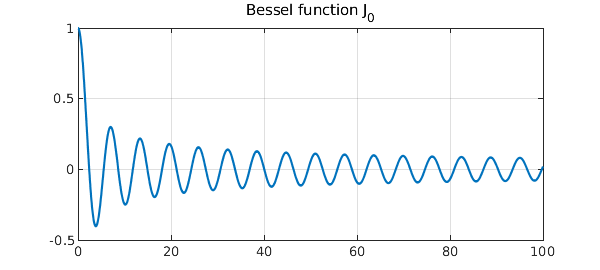
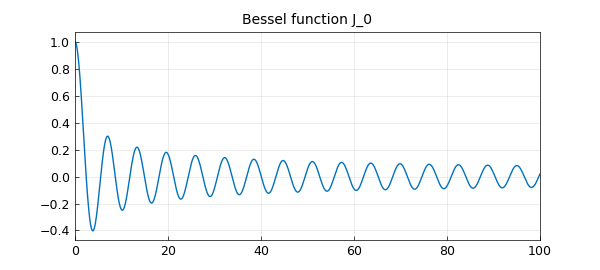
Workstream D pilot: roots/BesselRoots per-block figures genuine
First example page converted to per-block figure parity: the 1,230
NOT_REGENERATED example figures are byte-copies of chebfun.org because
the example pages were written as summaries with one combined local
figure. The per-category generator convention starts here
(scripts/generate_examples_roots.py, one function per page, reference
pixel sizes read from the refs): BesselRoots_01/02 regenerate genuinely
and pass at 0.029/0.031 (hist 0.9998). Page updated to reference them;
3/3 blocks execute.

Full workstream design, category order, and accumulated gotchas:
/scratch/gpfs/CRYOEM/gilleslab/chebfunjax_audit_20260702/workstream_D_plan.md

Changed region(s): [[0.06, 0.0, 0.93, 0.9481]]

diff --git a/scripts/generate_examples_roots.py b/scripts/generate_examples_roots.py
@@ -1,0 +1,83 @@
+"""Generate per-block figures for the docs/examples/roots pages.
+
+Each function regenerates the chebfun.org reference figures
+<Name>_NN.png for one example page, at the reference pixel sizes,
+using genuine chebfunjax computations. Run whole-file or filter with
+an argument substring, e.g.:
+
+    python scripts/generate_examples_roots.py BesselRoots
+"""
+
+import os
+
+os.environ.setdefault("XLA_PYTHON_CLIENT_PREALLOCATE", "false")
+
+import matplotlib
+
+matplotlib.use("Agg")
+
+import sys
+
+sys.path.insert(0, os.path.join(os.path.dirname(__file__), "..", "src"))
+
+import jax.numpy as jnp
+import matplotlib.pyplot as plt
+import numpy as np
+
+import chebfunjax as cj
+from chebfunjax.plotting import CHEBFUN_BLUE, chebfun_style, save_chebfun_figure
+
+chebfun_style()
+
+OUT = os.path.join(os.path.dirname(__file__), "..", "docs", "images", "roots")
+REF = ("/scratch/gpfs/CRYOEM/gilleslab/chebfunjax_audit_20260702/refs/"
+       "docs/images/roots")
+
+
+def save(fig, name):
+    from PIL import Image
+
+    ref_path = os.path.join(REF, name)
+    size = Image.open(ref_path).size if os.path.exists(ref_path) else (600, 270)
+    path = os.path.join(OUT, name)
+    save_chebfun_figure(fig, path, size=size)
+    plt.close(fig)
+    print(f"  {name} saved")
+
+
+def besselroots():
+    """roots/BesselRoots — J0 on [0,100] and its roots."""
+    import scipy.special
+
+    J0 = cj.chebfun(lambda x: jnp.asarray(scipy.special.j0(np.asarray(x))),
+                    domain=[0.0, 100.0])
+    xs = jnp.linspace(0.0, 100.0, 2000)
+
+    fig, ax = plt.subplots()
+    ax.plot(np.asarray(xs), np.asarray(J0(xs)), color=CHEBFUN_BLUE,
+            linewidth=1.0)
+    ax.grid(True, alpha=0.4, linewidth=0.4)
+    ax.set_title("Bessel function J_0")
+    save(fig, "BesselRoots_01.png")
+
+    r = J0.roots()
+    fig, ax = plt.subplots()
+    ax.plot(np.asarray(xs), np.asarray(J0(xs)), color=CHEBFUN_BLUE,
+            linewidth=1.0)
+    ax.plot(np.asarray(r), np.asarray(J0(r)), ".r", markersize=7)
+    ax.grid(True, alpha=0.4, linewidth=0.4)
+    ax.set_title("Bessel function J_0")
+    save(fig, "BesselRoots_02.png")
+
+
+PAGES = {
+    "BesselRoots": besselroots,
+}
+
+
+if __name__ == "__main__":
+    flt = sys.argv[1] if len(sys.argv) > 1 else ""
+    for name, fn in PAGES.items():
+        if flt.lower() in name.lower():
+            print(f"[{name}]")
+            fn()

diff --git a/docs/examples/roots/BesselRoots.md b/docs/examples/roots/BesselRoots.md
@@ -24,6 +24,13 @@ print(f"Number of roots: {len(r)}")
 print(f"First few: {r[:5]}")
 ```
 
+![J0 on [0, 100]](../../images/roots/BesselRoots_01.png)
+
+All the roots in the interval come from a single `roots()` call, marked
+in red:
+
+![Roots of J0](../../images/roots/BesselRoots_02.png)
+
 ## Comparison with scipy
 
 The roots agree with `scipy.special.jn_zeros` to machine precision:
